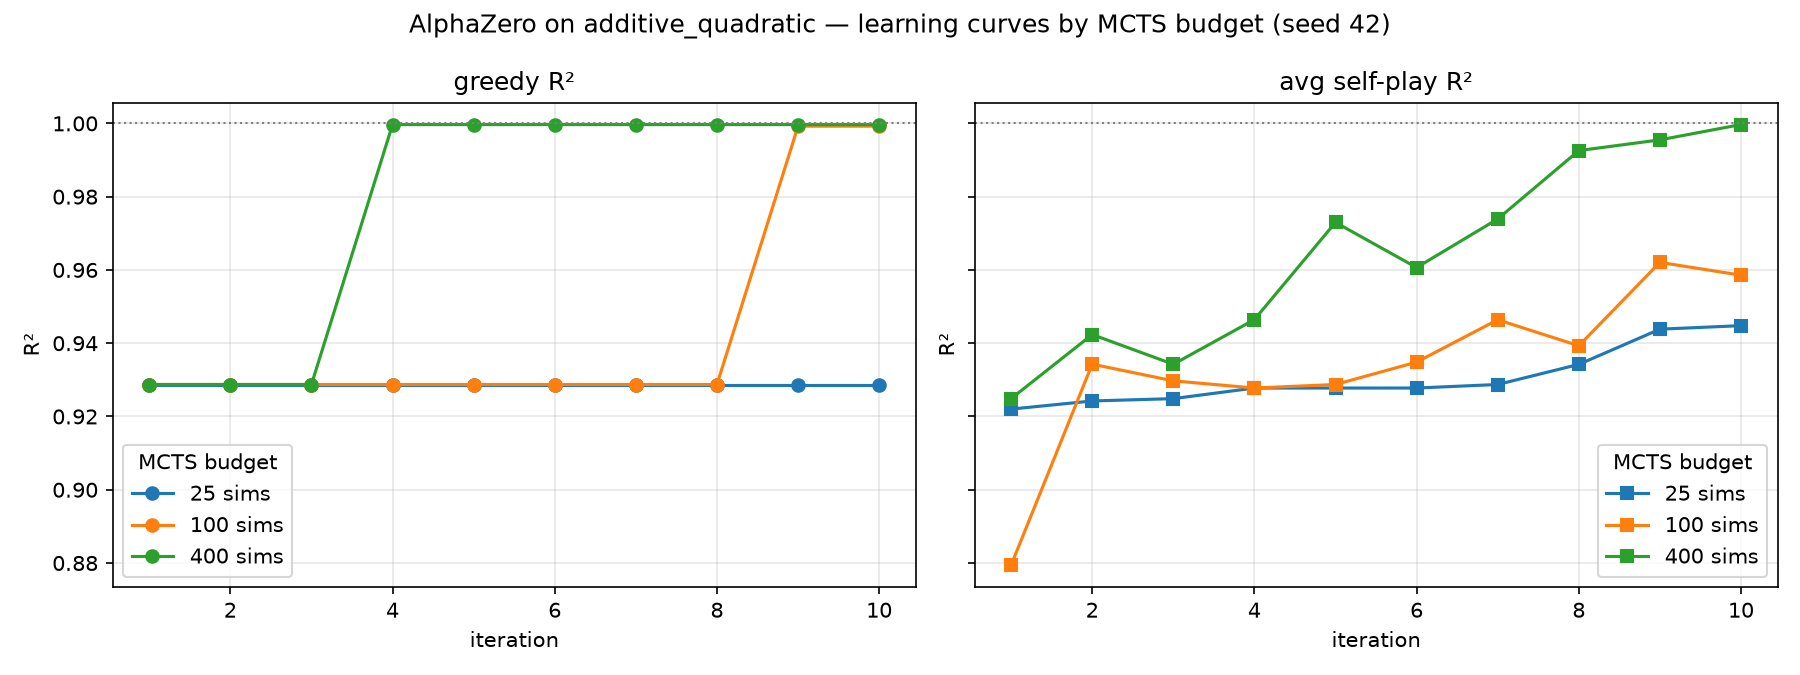
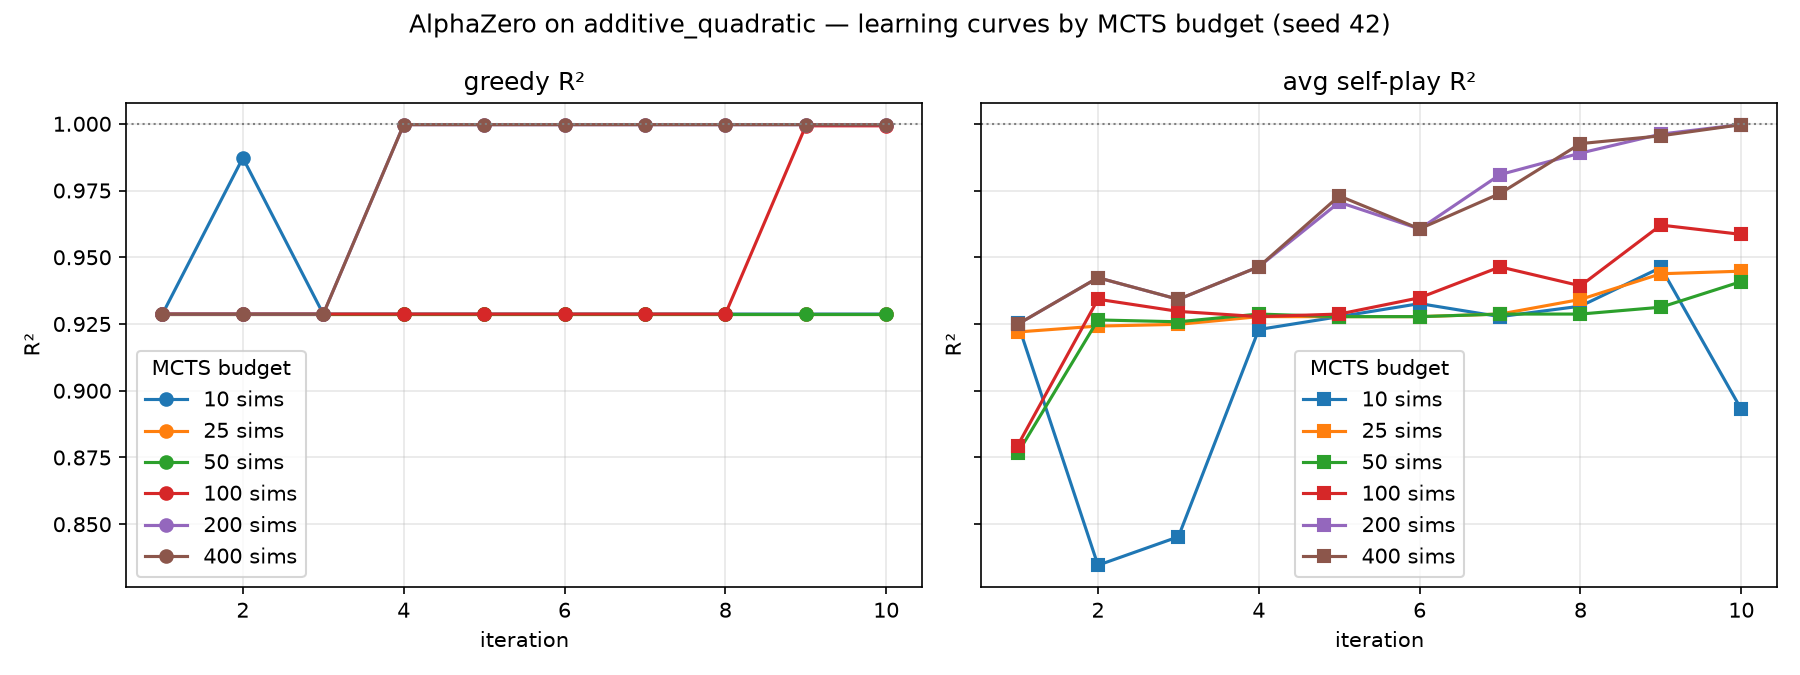
research: n_sim sweeps (AlphaZero vs pure MCTS) on additive and sine + figures
- plot_additive_sweep.py: add a metric-vs-n_sim summary plot and derive the
  summary figure name from --out so it works per problem.
- plot_pure_mcts_sweep.py: pure-MCTS metric (mean +/- std, best-of-K) vs n_sim.
- Figures for both instances (additive_quadratic, sine), AZ and pure MCTS.

Key results: on additive, AlphaZero improves with n_sim (the value net corrects
the compositional leaf estimate, climbing to ~1.0) while pure MCTS degrades
(mean-backup of random rollouts entrenches a single-term local optimum). On
sine (deep trap) AlphaZero is flat at 0.8729 at every budget and low-sim pure
MCTS (0.9575) beats it -- the learned net entrenches premature convergence.

diff --git a/scripts/plotting/plot_pure_mcts_sweep.py b/scripts/plotting/plot_pure_mcts_sweep.py
@@ -1,0 +1,99 @@
+"""Pure-MCTS metric vs MCTS budget for the symbolic-regression grammar game.
+
+Runs net-free classic MCTS (uniform prior + random rollouts) over K independent
+seeded episodes at several n_simulations values, and plots the R^2 distribution
+(mean +/- std) and best-of-K against the simulation budget -- the pure-MCTS
+analogue of plot_additive_sweep.py, so net vs no-net can be compared.
+
+Run from repo root:
+    python scripts/plotting/plot_pure_mcts_sweep.py --problem additive_quadratic \
+        --sims 10 25 50 100 200 400 --eval-episodes 12
+"""
+
+from sraz.utils import disable_numpy_multithreading, use_deterministic_cuda
+
+disable_numpy_multithreading()
+use_deterministic_cuda()
+
+import argparse  # noqa: E402
+import sys  # noqa: E402
+from pathlib import Path  # noqa: E402
+
+import numpy as np  # noqa: E402
+import matplotlib  # noqa: E402
+
+matplotlib.use("Agg")
+import matplotlib.pyplot as plt  # noqa: E402
+
+from sraz.instances.symreg.config import SymRegConfig  # noqa: E402
+
+REPO_ROOT = Path(__file__).resolve().parents[2]
+sys.path.insert(0, str(REPO_ROOT / "scripts" / "run"))
+from eval_pure_mcts import greedy_episode  # noqa: E402
+
+
+def run_sweep(problem, sim_budgets, n_episodes, base_seed, rollout_n):
+    """Return {n_sim: [per-episode R^2]} for net-free MCTS at each budget."""
+    results = {}
+    for ns in sim_budgets:
+        cfg = SymRegConfig(problem=problem, pure_mcts=True)
+        cfg.agent.mcts_params["n_simulations"] = ns
+        if rollout_n is not None:
+            cfg.agent.mcts_params["rollout_n"] = rollout_n
+        cfg.game.kwargs["problem_seed"] = base_seed
+        cfg.agent.random_seeds = {"mcts": base_seed, "train": base_seed + 1,
+                                  "eval": base_seed + 2,
+                                  "external_policy": base_seed + 3}
+        game, net, agent, _ = cfg.build()
+        r2s = [greedy_episode(agent, game, seed=base_seed + k)[0]
+               for k in range(n_episodes)]
+        results[ns] = r2s
+        print(f"  n_sim={ns:4d}: mean={np.mean(r2s):+.4f} +/- {np.std(r2s):.4f}  "
+              f"best-of-{n_episodes}={np.max(r2s):+.4f}")
+    return results
+
+
+def plot_sweep(results, out_path, problem, n_episodes):
+    sims = sorted(results)
+    means = np.array([np.mean(results[ns]) for ns in sims])
+    stds = np.array([np.std(results[ns]) for ns in sims])
+    bestk = [np.max(results[ns]) for ns in sims]
+    fig, ax = plt.subplots(figsize=(7, 4.5))
+    ax.errorbar(sims, means, yerr=stds, fmt="o-", capsize=3,
+                label="mean +/- std per-episode R²")
+    ax.plot(sims, bestk, "s--", label=f"best-of-{n_episodes} R²")
+    ax.axhline(1.0, ls=":", c="gray", lw=1)  # reachable optimum
+    ax.set_xscale("log")
+    ax.set_xlabel("MCTS simulations per move (log scale)")
+    ax.set_ylabel("R²")
+    ax.set_title(f"Pure MCTS on {problem} — metric vs MCTS budget "
+                 f"({n_episodes} episodes/budget, seed 42)")
+    ax.grid(alpha=0.3, which="both")
+    ax.legend()
+    fig.tight_layout()
+    out_path.parent.mkdir(parents=True, exist_ok=True)
+    fig.savefig(out_path, dpi=150)
+    plt.close(fig)
+
+
+def main():
+    ap = argparse.ArgumentParser(description=__doc__)
+    ap.add_argument("--problem", type=str, default="additive_quadratic")
+    ap.add_argument("--sims", type=int, nargs="+",
+                    default=[10, 25, 50, 100, 200, 400])
+    ap.add_argument("--eval-episodes", type=int, default=12)
+    ap.add_argument("--seed", type=int, default=42)
+    ap.add_argument("--rollout-n", type=int, default=None)
+    ap.add_argument("--out", type=str, default=str(
+        REPO_ROOT / "Claude-research" / "figures" / "pure_mcts_sim_vs_metric.png"))
+    args = ap.parse_args()
+    print(f"pure MCTS sweep on {args.problem} "
+          f"({args.eval_episodes} episodes/budget)")
+    results = run_sweep(args.problem, args.sims, args.eval_episodes,
+                        args.seed, args.rollout_n)
+    plot_sweep(results, Path(args.out), args.problem, args.eval_episodes)
+    print(f"figure: {args.out}")
+
+
+if __name__ == "__main__":
+    main()

diff --git a/scripts/plotting/plot_additive_sweep.py b/scripts/plotting/plot_additive_sweep.py
@@ -78,6 +78,29 @@ def plot_curves(results, out_path, problem="additive_quadratic"):
     plt.close(fig)
 
 
+def plot_summary(results, out_path, problem="additive_quadratic"):
+    """Summary view: the metric as a function of the MCTS budget (x = n_sim)."""
+    sims = sorted(results)
+    best_greedy = [max(e["greedy_r2"] for e in results[ns]) for ns in sims]
+    final_greedy = [results[ns][-1]["greedy_r2"] for ns in sims]
+    final_selfplay = [results[ns][-1]["avg_train_reward"] for ns in sims]
+    fig, ax = plt.subplots(figsize=(7, 4.5))
+    ax.plot(sims, best_greedy, "o-", label="best greedy R²")
+    ax.plot(sims, final_greedy, "s--", label="final greedy R²")
+    ax.plot(sims, final_selfplay, "^:", label="final avg self-play R²")
+    ax.axhline(1.0, ls=":", c="gray", lw=1)  # reachable optimum
+    ax.set_xscale("log")
+    ax.set_xlabel("MCTS simulations per move (log scale)")
+    ax.set_ylabel("R²")
+    ax.set_title(f"AlphaZero on {problem} — metric vs MCTS budget (seed 42)")
+    ax.grid(alpha=0.3, which="both")
+    ax.legend()
+    fig.tight_layout()
+    out_path.parent.mkdir(parents=True, exist_ok=True)
+    fig.savefig(out_path, dpi=150)
+    plt.close(fig)
+
+
 def main():
     ap = argparse.ArgumentParser(description=__doc__)
     ap.add_argument("--sims", type=int, nargs="+", default=[25, 100, 400])
@@ -89,12 +112,21 @@ def main():
 
     results = run_sweep(args.sims, seed=args.seed, problem=args.problem)
     plot_curves(results, Path(args.out), problem=args.problem)
+    stem = Path(args.out).stem
+    summary_stem = (stem.replace("_sweep", "_vs_metric")
+                    if "_sweep" in stem else stem + "_vs_metric")
+    summary_out = Path(args.out).with_name(summary_stem + ".png")
+    plot_summary(results, summary_out, problem=args.problem)
 
-    print("\n=== summary (greedy R²) ===")
-    for ns, log in sorted(results.items()):
+    print("\n=== summary vs MCTS budget ===")
+    print(f"  {'n_sim':>6} {'best_greedy':>12} {'final_greedy':>13} {'final_selfplay':>15}")
+    for ns in sorted(results):
+        log = results[ns]
         best = max(e["greedy_r2"] for e in log)
-        print(f"  {ns:4d} sims: final={log[-1]['greedy_r2']:.4f}  best={best:.4f}")
-    print(f"figure: {args.out}")
+        print(f"  {ns:6d} {best:12.4f} {log[-1]['greedy_r2']:13.4f} "
+              f"{log[-1]['avg_train_reward']:15.4f}")
+    print(f"\ncurves : {args.out}")
+    print(f"summary: {summary_out}")
 
 
 if __name__ == "__main__":
